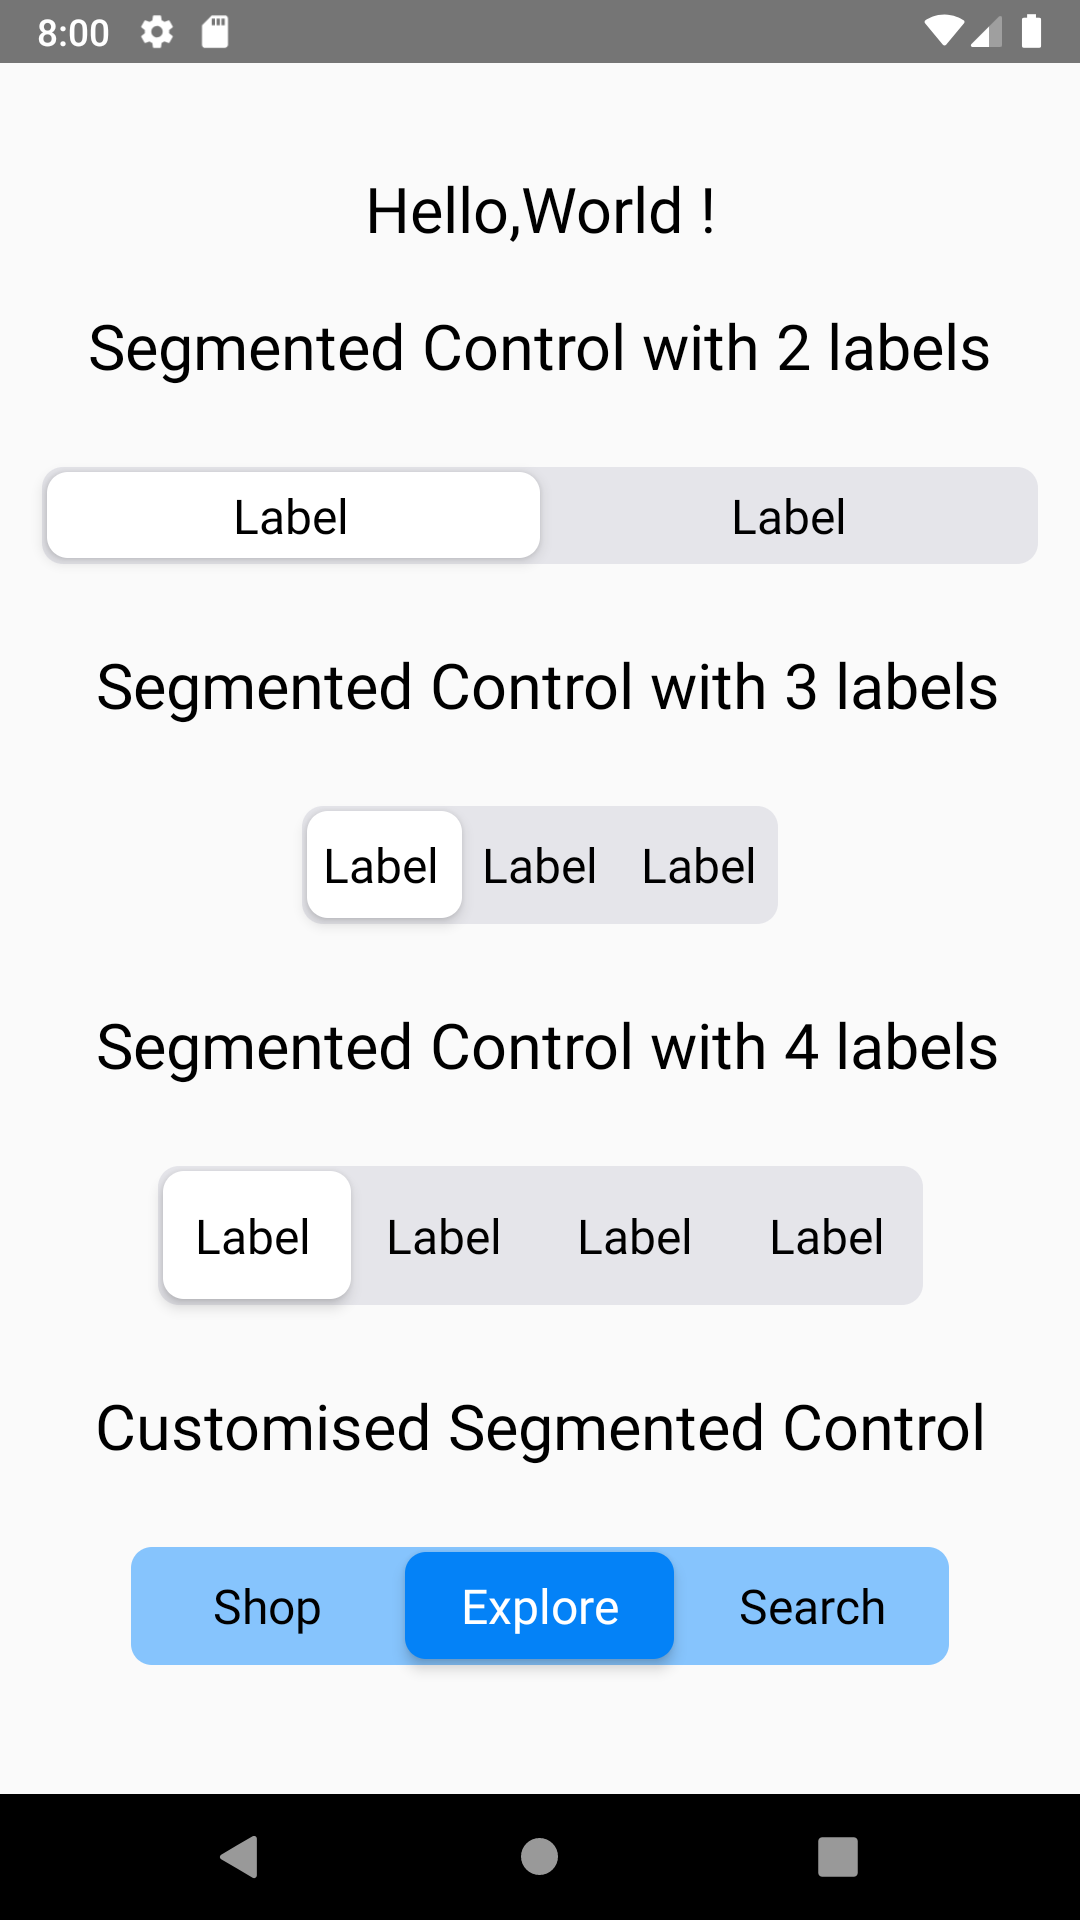
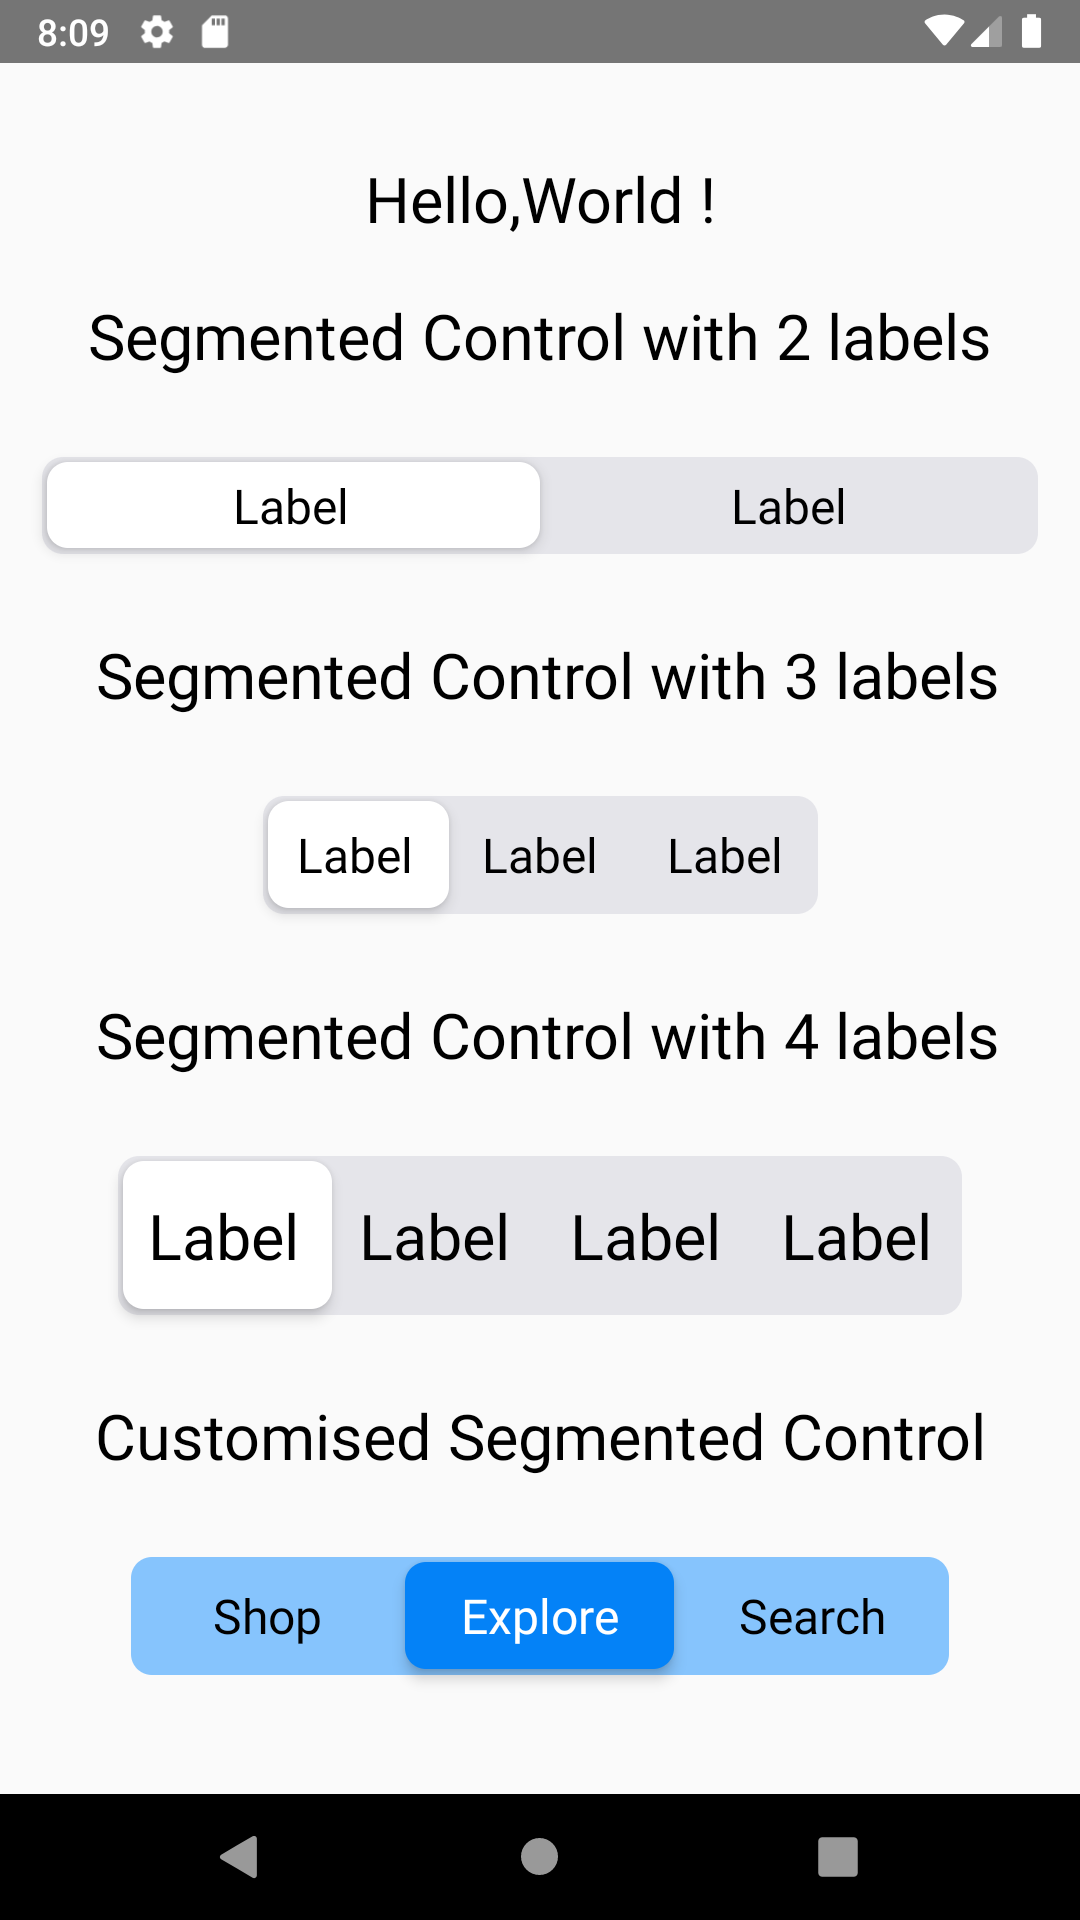
1. Added new screenshots 2. Used the rc version to test example project 3. Update ReadMe with latest example code

diff --git a/examples/RNSegmentedControl/src/appRoot/index.js b/examples/RNSegmentedControl/src/appRoot/index.js
@@ -1,6 +1,6 @@
 import React from 'react';
 import { Dimensions, StyleSheet, Text, View } from 'react-native';
-import SegmentedControl from '../components/segmentedControl';
+import SegmentedControl from 'rn-segmented-control';
 
 const AppRoot = () => {
   const [tabIndex, setTabIndex] = React.useState(1);
@@ -29,16 +29,20 @@ const AppRoot = () => {
         containerStyle={{
           marginVertical: 20,
         }}
-        width={Dimensions.get('screen').width - 230}
+        width={Dimensions.get('screen').width - 200}
       />
       <Text style={styles.textStyle}> Segmented Control with 4 labels</Text>
       <SegmentedControl
         tabs={['Label', 'Label', 'Label', 'Label']}
         onChange={() => { }}
         paddingVertical={14}
-        width={Dimensions.get('screen').width - 120}
+        width={Dimensions.get('screen').width - 90}
         containerStyle={{
           marginVertical: 20,
+        }}
+        textStyle={{
+          fontWeight: '300',
+          fontSize: 24
         }}
       />
       <Text style={styles.textStyle}>Customised Segmented Control</Text>
